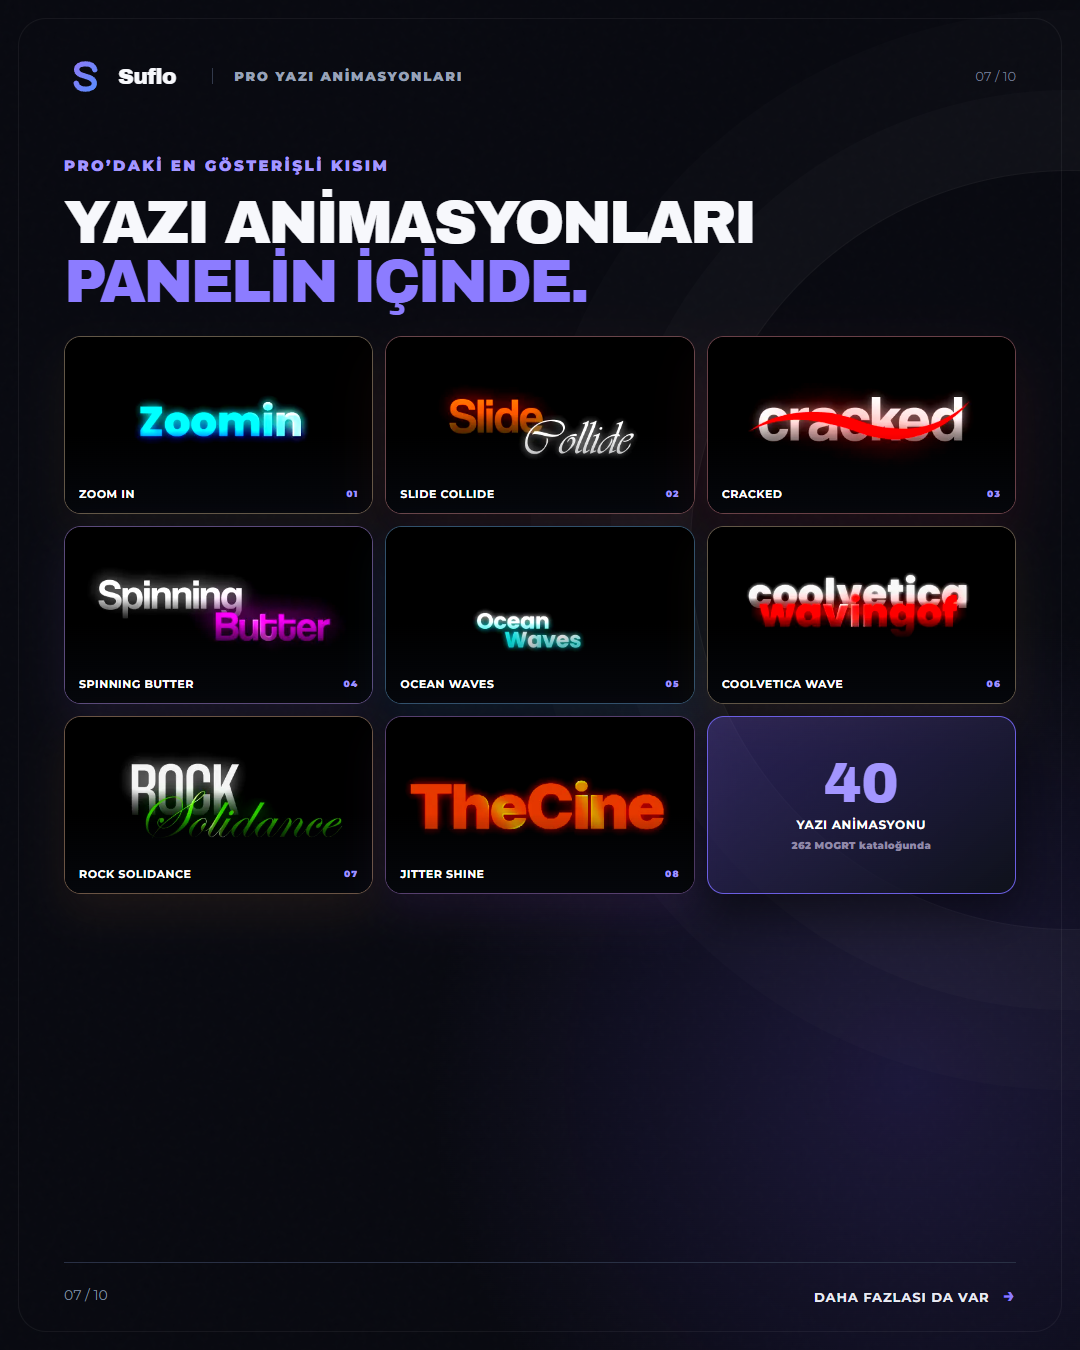
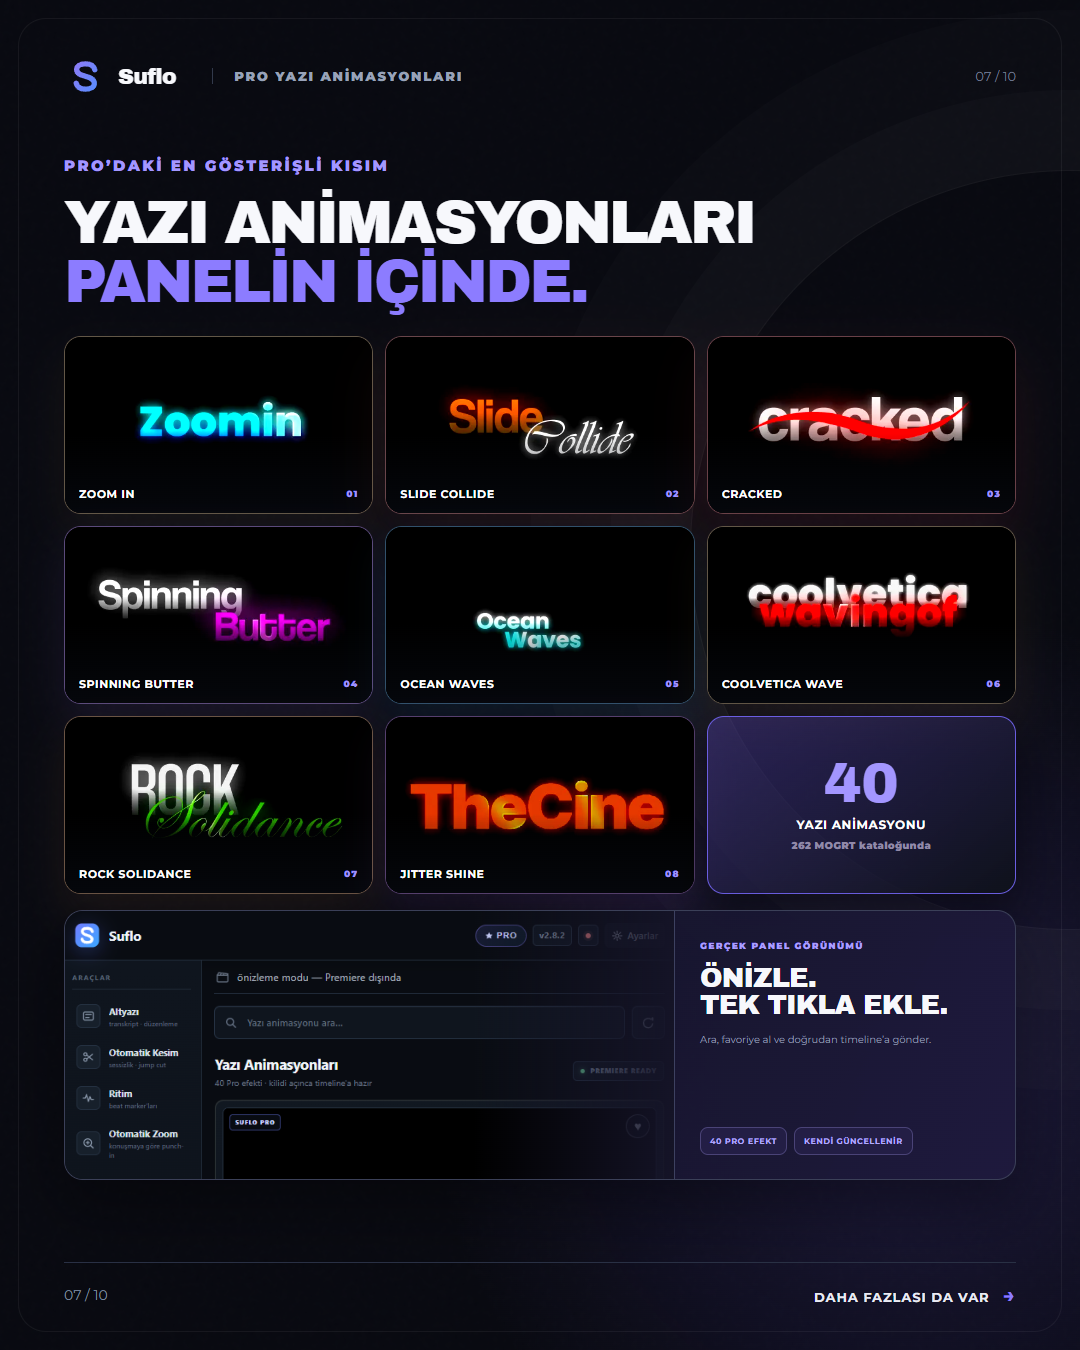
Complete Suflo text animation showcase

diff --git a/brand/campaign-2.8.2-FINAL/carousel.css b/brand/campaign-2.8.2-FINAL/carousel.css
@@ -163,6 +163,9 @@ main,.slide{width:1080px;height:1350px}
 .count-tile>strong{font-family:Archivo;font-size:56px;line-height:.88;color:#a396ff}
 .count-tile>b{margin-top:10px;font-size:12px;letter-spacing:.65px}
 .count-tile>span{margin-top:7px;font-size:10px;letter-spacing:.3px;color:#918aa8}
+.mogrt-panel-proof{position:relative;z-index:9;height:270px;margin-top:16px;border:1px solid #3b4058;border-radius:19px;background:linear-gradient(115deg,rgba(14,18,29,.98),rgba(30,25,61,.97));overflow:hidden;display:grid;grid-template-columns:610px 1fr;box-shadow:0 26px 58px rgba(0,0,0,.32)}
+.mogrt-panel-shot{height:100%;overflow:hidden;border-right:1px solid #3d4160;position:relative}.mogrt-panel-shot:after{content:"";position:absolute;inset:0;background:linear-gradient(90deg,transparent 67%,rgba(21,20,40,.94));pointer-events:none}.mogrt-panel-shot img{display:block;width:100%;height:auto;min-height:100%;object-fit:cover;object-position:top center;transform:scale(1.01);transform-origin:top center}
+.mogrt-panel-copy{padding:29px 25px 24px;display:flex;flex-direction:column}.mogrt-panel-copy>span{color:#aa9eff;font-size:9px;font-weight:900;letter-spacing:1.35px}.mogrt-panel-copy>strong{margin-top:13px;font-family:Archivo;font-size:27px;line-height:1.02;letter-spacing:-.8px}.mogrt-panel-copy>p{margin:13px 0 0;color:#919aaf;font-size:10px;line-height:1.5}.mogrt-panel-copy>div{margin-top:auto;display:flex;flex-wrap:wrap;gap:7px}.mogrt-panel-copy b{padding:8px 9px;border:1px solid #4a4377;border-radius:8px;background:#231e45;color:#b2a9ff;font-size:8px;letter-spacing:.55px}
 .number-row article{height:130px;padding:17px 15px}
 .number-row strong{font-size:39px}
 .number-row b{font-size:14px}

diff --git a/brand/campaign-2.8.2-FINAL/carousel.html b/brand/campaign-2.8.2-FINAL/carousel.html
@@ -140,6 +140,15 @@
         <article class="mogrt-tile jitter"><img src="../../assets/pro-mogrt-showcase/previews/26-jitter-shine.webp" alt="Jitter Shine yazı animasyonu"><div><b>JITTER SHINE</b><span>08</span></div></article>
         <article class="mogrt-tile count-tile"><strong>40</strong><b>YAZI ANİMASYONU</b><span>262 MOGRT kataloğunda</span></article>
       </div>
+      <div class="mogrt-panel-proof">
+        <div class="mogrt-panel-shot"><img src="panel-captures/02-text-effects.png" alt="Suflo yazı animasyonları paneli"></div>
+        <div class="mogrt-panel-copy">
+          <span>GERÇEK PANEL GÖRÜNÜMÜ</span>
+          <strong>ÖNİZLE.<br>TEK TIKLA EKLE.</strong>
+          <p>Ara, favoriye al ve doğrudan timeline’a gönder.</p>
+          <div><b>40 PRO EFEKT</b><b>KENDİ GÜNCELLENİR</b></div>
+        </div>
+      </div>
       <footer class="foot"><span>07 / 10</span><b>DAHA FAZLASI DA VAR <i>→</i></b></footer>
     </section>
 
